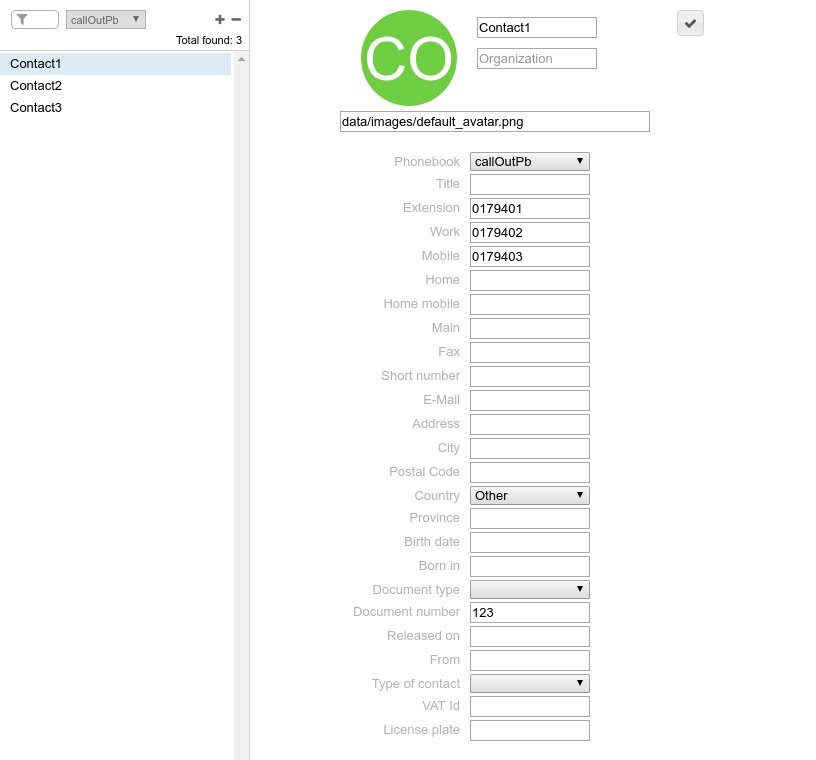
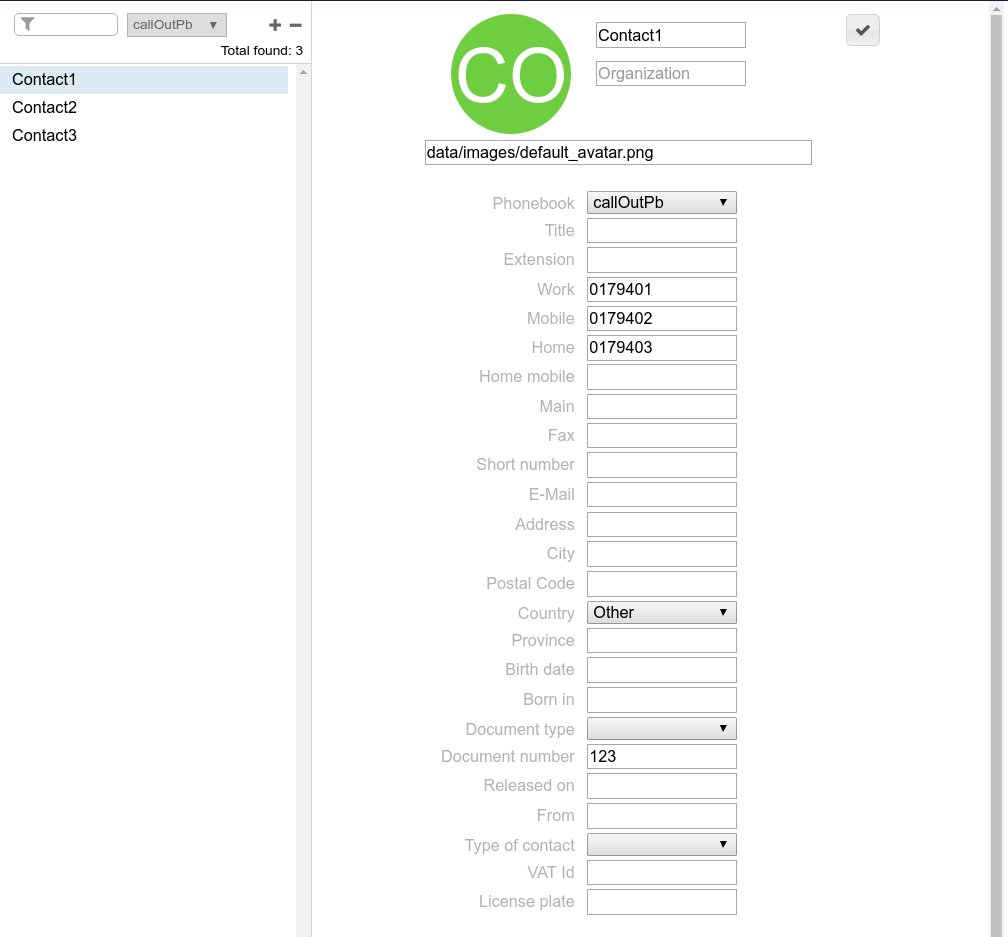
Corrected images.

diff --git a/README.md b/README.md
@@ -34,15 +34,23 @@ Create the sound directories. In this exampe "snd", "call_out_test", "call_out_r
 * call_out_real - for female real alert sounds (call_out_test, enter_personal_pin, wrong_pin, confirm_or_refuse, procedure_complete)
 The name for male and female sound directory have to be same with EVENT_NAME (see below)
 
+Sound directories:
+
 ![Alt text](images/Sound_directories.jpeg?raw=true "Sound directories")
+
+Initial sounds:
 
 ![Alt text](images/Initial_alert_sounds.jpeg?raw=true "Initial sounds")
 
-![Alt text](images/Call_out_real_sounds.jpeg?raw=true "Call-out real sounds")
+Call out test sounds:
 
 ![Alt text](images/Call_out_test_sounds.jpeg?raw=true "Call-out test sounds")
 
-##Create a new dialplan rule “events_dialplan”
+Call out real sounds:
+
+![Alt text](images/Call_out_real_sounds.jpeg?raw=true "Call-out real sounds")
+
+##Create a new dialplan rule “events”
 
 in Dialpan -> Dialplan rules menu and add two extensions which are used as pin to start a test or real alert call:
 
@@ -77,7 +85,7 @@ parameters usage:
 
 ##Before starting our first alert call we need to create the phonebook indicated above: callOutPb
 
-Three numbers  will be called for each contact: Extension, Work, Mobile
+Three numbers  will be called for each contact: Work, Mobile, Home
 
 The pin must be stored in the field "Document Number"
 
